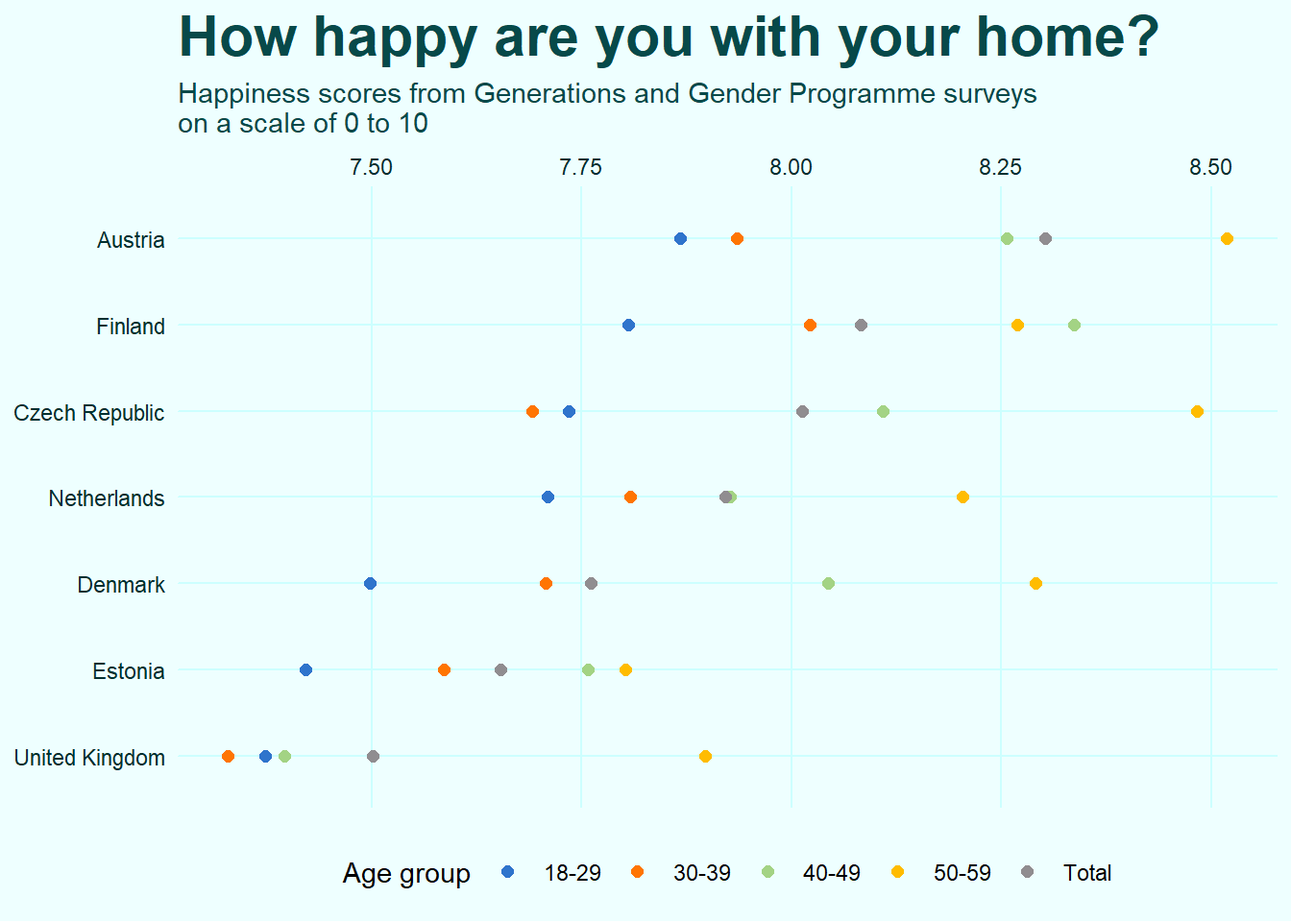
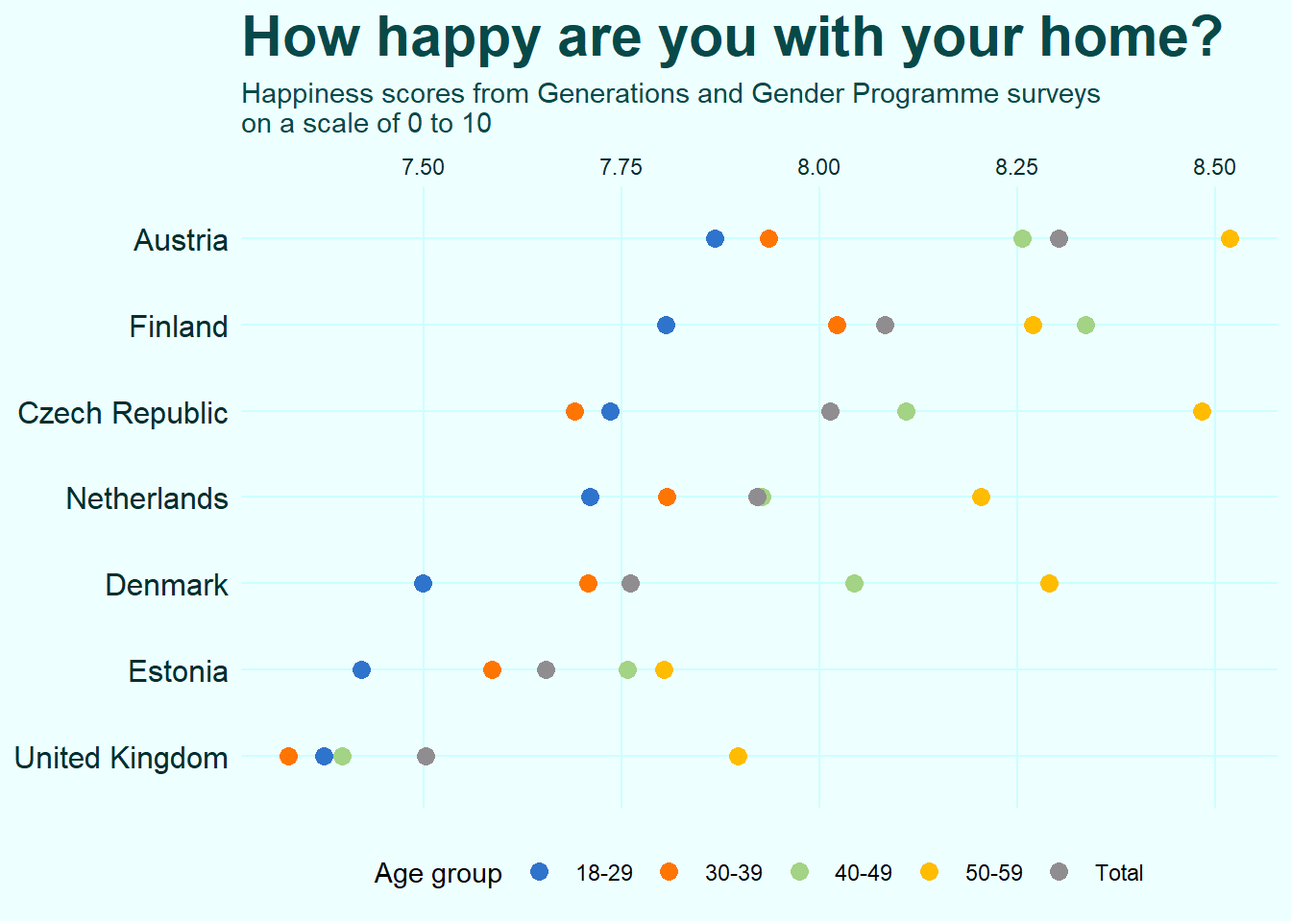
typos

diff --git a/_site/2024/rotate-damn-plot/index.html b/_site/2024/rotate-damn-plot/index.html
@@ -111,7 +111,7 @@ ga('send', {
   hitType: 'pageview',
   'anonymizeIp': true,
 });
-</script><meta name="quarto:status" content="draft">
+</script>
 <meta property="og:title" content="Rotate the damn plot | ?meta:website.title">
 <meta property="og:description" content="Dr.&nbsp;Ilya Kashnitsky is a demographer @ Statistics.">
 <meta property="og:image" content="https://ikashnitsky.phd/2024/rotate-damn-plot/teaser.png">
@@ -131,7 +131,7 @@ ga('send', {
 <body class="nav-fixed fullcontent">
 
 <div id="quarto-search-results"></div>
-  <header id="quarto-header" class="headroom fixed-top"><div id="quarto-draft-alert" class="alert alert-warning"><i class="bi bi-pencil-square"></i>Draft</div><nav class="navbar navbar-expand-lg " data-bs-theme="dark"><div class="navbar-container container-fluid">
+  <header id="quarto-header" class="headroom fixed-top"><nav class="navbar navbar-expand-lg " data-bs-theme="dark"><div class="navbar-container container-fluid">
       <div class="navbar-brand-container mx-auto">
     <a class="navbar-brand" href="../../index.html">
     <span class="navbar-title">Ilya Kashnitsky</span>
@@ -227,25 +227,25 @@ ga('send', {
   
 
 
-</header><script src="https://cdn.counter.dev/script.js" data-id="daa70324-89c3-4b1c-8ea0-3588f29f41f5" data-utcoffset="1"></script><p>Several days ago I saw <a href="https://www.linkedin.com/feed/update/urn:li:activity:7271909125997924353/">a post on LinkedIn by Jornt Mandemakers</a> with some very curious results from <a href="https://bsky.app/profile/ggp.bsky.social">Gender and Generations Programme</a> surveys. While representing interesting data, it was a perfect example of a way too common academic dataviz fallacy that I decided to write this blog post.</p>
+</header><script src="https://cdn.counter.dev/script.js" data-id="daa70324-89c3-4b1c-8ea0-3588f29f41f5" data-utcoffset="1"></script><p>Several days ago I saw <a href="https://www.linkedin.com/feed/update/urn:li:activity:7271909125997924353/">a post on LinkedIn by Jornt Mandemakers</a> with some very curious results from <a href="https://bsky.app/profile/ggp.bsky.social">Gender and Generations Programme</a> surveys. While representing interesting data, it was a perfect example of a way too common academic dataviz fallacy, and I decided to finally write this blog post.</p>
 <p>Here is the original plot by Jornt.</p>
 <p><img src="plot-to-redo.jpg" class="img-fluid"></p>
-<p>We are going to replicate it and then redo – all in hope to illustrate how much it can be improved with very very simple alterations. In fact, this post revives the argument I made in an earlier post called <a href="https://ikashnitsky.phd/2019/dotplot/">Dotplot – the single most useful yet largely neglected dataviz type</a>. Despite the nice title and the same main message, I’m afraid the older post used a less indicative example. So I hope this time I’ll manage to illustrate the key message a bit clearer. But the message itslf stays the same – <strong>forget multi-category bar/column plots and use dotplots instead</strong>. Or, put it the other way around: whenever you are showing a continuous measurement split into multiple categories, place the continuous variable on the horizontal (x) axis and the categorical variable on the vertical (y) axis. That’s it. Just a simple trick improves the readability of your plot <strong>a lot</strong>.</p>
-<p>Unfortunately, the use of crumpled multi-category bar plots is very widespread in academic papers. Just have a look at a Google Lens search on the focal plot in this post – it just browses the internet for similarly looking images, and they are plenty, most of them coming straight from academic papers.</p>
+<p>We are going to replicate it and then redo – all in hope to illustrate how much it can be improved with very very simple alterations. In fact, this post revives the argument I made in an earlier post called <a href="https://ikashnitsky.phd/2019/dotplot/">Dotplot – the single most useful yet largely neglected dataviz type</a>. Despite the nice title and the same main message, I’m afraid the older post used a less indicative example. So I hope this time I’ll manage to illustrate the key message a bit clearer. But the message itself stays the same – <strong>forget multi-category bar/column plots and use dotplots instead</strong>. Or, put it the other way around: whenever you are visualizing a continuous measurement split into multiple categories, place the continuous variable on the horizontal (x) axis and the categorical variable on the vertical (y) axis. That’s it. Just a simple trick improves the readability of your plot <strong>a lot</strong>.</p>
+<p>Unfortunately, the use of crumpled multi-category bar plots is very widespread in academic papers. Have a look at a Google Lens search on the focal plot in this post. Google Lens browses the internet for similarly looking images, and they are plenty, most of them coming straight from academic papers.</p>
 <p><img src="google-lens.png" class="img-fluid"></p>
 <section id="rotate-the-damn-plot" class="level1"><h1>Rotate the damn plot</h1>
-<p>Over years of <a href="https://github.com/ikashnitsky/dataviz-art-skill">teaching dataviz</a> to researchers I came to understanding that this particular mistreatment of data may be the most common and easily avoidable dataviz fallacy. Another dated attempt to spread this simple knowledge yuilded an educational datatviz aimed at the general audience. Here it is.</p>
+<p>Over years of <a href="https://github.com/ikashnitsky/dataviz-art-skill">teaching dataviz</a> to researchers I came to understanding that this particular mistreatment of data may be the most common and easily avoidable dataviz fallacy. Another dated attempt to spread this simple knowledge yielded an educational datatviz aimed at the general audience. Here it is.</p>
 <p><img src="04-magic.png" class="img-fluid"></p>
 <p>As you can see, much better readable text is what we immediately get via such a simple alteration of the dataviz, just <strong>Rotate the damn plot</strong>. There are several more equally simple dataviz rules/principles that I <a href="https://ikashnitsky.github.io/dataviz-art-skill/slides/slides-dataviz-bssd.html">keep teaching</a> and want to write-up better here in future. If you are interested, follow the dedicated BlueSky account @<a href="https://bsky.app/profile/damnplot.ikashnitsky.phd">damnplot.ikashnitsky.phd</a>, I have big plans for it.</p>
-<p>Okay. Enough with the lengthy intro. Let’s replicate the plot from the very beginning of the post and then redo it.</p>
+<p>Okay. Enough with the lengthy intro. Let’s replicate the plot from the very beginning of the post and then improve it.</p>
 </section><section id="digitizing-the-data" class="level1"><h1>Digitizing the data</h1>
-<p>But first we need the data from the plot. Of course, I could have taken it from the original source, <a href="https://bsky.app/profile/ggp.bsky.social">Gender and Generations Programme</a>. Or I could have asked the authors to share just the data used for this plot. But for simple plots that use a handful of data points there is a better simple alternative – digitizing the values from the plot itself. There are numerous software solutions that streamline the task, including an <a href="https://cran.r-project.org/web/packages/digitize/index.html">R package {digitize}</a>. This time I used a brilliantly simple <a href="https://web.eecs.utk.edu/~dcostine/personal/PowerDeviceLib/DigiTest/index.html">WebPlotDigitizer</a>. The idea of digitizing is very simple – we just read the actual values from the plot and thus convert an image into the data underlying it. To do that we only need to provide the information about the coordinates of the plot grid.</p>
+<p>But first we need the data from the plot. Of course, I could have taken it from the original source, <a href="https://bsky.app/profile/ggp.bsky.social">Gender and Generations Programme</a>. Or I could have asked the authors to share only the data used for this plot. But for simple plots that use a handful of data points there is a better alternative – digitizing the values from the plot itself. There are numerous software solutions that streamline the task, including an <a href="https://cran.r-project.org/web/packages/digitize/index.html">R package {digitize}</a>. This time I used the brilliant <a href="https://web.eecs.utk.edu/~dcostine/personal/PowerDeviceLib/DigiTest/index.html">WebPlotDigitizer</a>. The idea of digitizing is very straightforward – we read the actual values from a plot and thus convert the image into data underlying it. To do that we only need to provide the information about the coordinates of the plot grid.</p>
 <p><img src="digi-1.png" class="img-fluid"></p>
-<p>Then the remaining task is just to click all the data points in already known coordinate space.</p>
+<p>Then the remaining task is to click all the data points in already known coordinate space.</p>
 <p><img src="digi-2.png" class="img-fluid"></p>
-<p>Just 35 clicks, and we are ready to export a clean CSV file with the data of the plot. For replocability of this post I uploaded the data and code to a <a href="https://gist.github.com/ikashnitsky/8cc26eab8165b0b79f67da761aa66a1e">gist</a>.</p>
+<p>Just 35 clicks, and we are ready to export a clean CSV file with the data of the plot. For replicability of this post I uploaded the data and code to a <a href="https://gist.github.com/ikashnitsky/8cc26eab8165b0b79f67da761aa66a1e">gist</a>.</p>
 <p><img src="digi-3.png" class="img-fluid"></p>
-<p>Funny enough, I tried to set various LLMs to do the job for me, and some of them even happily reported the extracted data. I was impressed. Really impressed. Until I figured out that, once again, bullshitters are gonna bullshit. All the so called digitized data happened to be approximate guesses of varied wildness. I;m pretty sure that this not so complex task can be reasonably automated. But so far the mainstream LLMs consistently failed to do this. Here is a sneak-peek of my discussion with Claude. Everything is really impressive until you check closely.</p>
+<p>Funny enough, I tried to set various LLMs to do the job for me, and some of them even happily reported the extracted data. I was impressed. Really impressed. Until I figured out that, once again, bullshitters are gonna bullshit. All the so called digitized data happened to be approximate guesses of varied wildness. I’m pretty sure that this not so complex task can be reasonably automated. But so far the mainstream LLMs consistently failed to do this. Here is a sneak-peek of my discussion with Claude. Everything is really impressive until you check closely.</p>
 <p><img src="claude-chat.png" class="img-fluid"></p>
 </section><section id="replicating-original-plot" class="level1"><h1>Replicating original plot</h1>
 <p>Having digitized the data manually, we are now good to go and finally replicate the original plot.</p>
@@ -256,35 +256,35 @@ ga('send', {
 <span><span class="co"># Points digitized manually using</span></span>
 <span><span class="co"># https://web.eecs.utk.edu/~dcostine/personal/PowerDeviceLib/DigiTest/index.html</span></span>
 <span><span class="co"># Data uploaded to a gist</span></span>
-<span><span class="va">digi</span> <span class="op">&lt;-</span> <span class="fu"><a href="https://rdrr.io/pkg/readr/man/read_delim.html">read_csv</a></span><span class="op">(</span></span>
+<span><span class="va">digi</span> <span class="op">&lt;-</span> <span class="fu"><a href="https://readr.tidyverse.org/reference/read_delim.html">read_csv</a></span><span class="op">(</span></span>
 <span>    <span class="st">"https://gist.githubusercontent.com/ikashnitsky/8cc26eab8165b0b79f67da761aa66a1e/raw/8d44c9e6ddea51de3cbb0fdb742fb75a62a307fd/data.csv"</span>,</span>
 <span>    col_names <span class="op">=</span> <span class="fu"><a href="https://rdrr.io/r/base/c.html">c</a></span><span class="op">(</span><span class="st">"x"</span>, <span class="st">"happiness"</span><span class="op">)</span></span>
 <span><span class="op">)</span></span>
 <span></span>
 <span><span class="co"># get all combinations of the categories and attach the digitized data</span></span>
-<span><span class="va">df</span> <span class="op">&lt;-</span> <span class="fu"><a href="https://rdrr.io/pkg/tidyr/man/expand.html">crossing</a></span><span class="op">(</span></span>
-<span>    country <span class="op">=</span> <span class="fu"><a href="https://rdrr.io/r/base/c.html">c</a></span><span class="op">(</span><span class="st">"United Kingdom"</span>, <span class="st">"Estonia"</span>, <span class="st">"Denmark"</span>, <span class="st">"Netherlands"</span>, <span class="st">"Czech Republic"</span>, <span class="st">"Finland"</span>, <span class="st">"Austria"</span><span class="op">)</span> <span class="op">|&gt;</span> <span class="fu"><a href="https://rdrr.io/pkg/forcats/man/as_factor.html">as_factor</a></span><span class="op">(</span><span class="op">)</span>,</span>
+<span><span class="va">df</span> <span class="op">&lt;-</span> <span class="fu"><a href="https://tidyr.tidyverse.org/reference/expand.html">crossing</a></span><span class="op">(</span></span>
+<span>    country <span class="op">=</span> <span class="fu"><a href="https://rdrr.io/r/base/c.html">c</a></span><span class="op">(</span><span class="st">"United Kingdom"</span>, <span class="st">"Estonia"</span>, <span class="st">"Denmark"</span>, <span class="st">"Netherlands"</span>, <span class="st">"Czech Republic"</span>, <span class="st">"Finland"</span>, <span class="st">"Austria"</span><span class="op">)</span> <span class="op">|&gt;</span> <span class="fu"><a href="https://forcats.tidyverse.org/reference/as_factor.html">as_factor</a></span><span class="op">(</span><span class="op">)</span>,</span>
 <span>    group <span class="op">=</span> <span class="fu"><a href="https://rdrr.io/r/base/c.html">c</a></span><span class="op">(</span><span class="st">"18-29"</span>, <span class="st">"30-39"</span>, <span class="st">"40-49"</span>, <span class="st">"50-59"</span>, <span class="st">"Total"</span><span class="op">)</span></span>
 <span><span class="op">)</span> <span class="op">|&gt;</span></span>
-<span>    <span class="fu"><a href="https://rdrr.io/pkg/dplyr/man/mutate.html">mutate</a></span><span class="op">(</span>happiness <span class="op">=</span> <span class="va">digi</span> <span class="op">|&gt;</span> <span class="fu"><a href="https://rdrr.io/pkg/dplyr/man/pull.html">pull</a></span><span class="op">(</span><span class="va">happiness</span><span class="op">)</span><span class="op">)</span></span></code><button title="Copy to Clipboard" class="code-copy-button"><i class="bi"></i></button></pre></div>
+<span>    <span class="fu"><a href="https://dplyr.tidyverse.org/reference/mutate.html">mutate</a></span><span class="op">(</span>happiness <span class="op">=</span> <span class="va">digi</span> <span class="op">|&gt;</span> <span class="fu"><a href="https://dplyr.tidyverse.org/reference/pull.html">pull</a></span><span class="op">(</span><span class="va">happiness</span><span class="op">)</span><span class="op">)</span></span></code><button title="Copy to Clipboard" class="code-copy-button"><i class="bi"></i></button></pre></div>
 </div>
-<p>Now we have the dataset ready to be plotted. First let’s try to recreate the original plot as closely as we can. Note that I use exactly the same colors, which I picked from the original plot using a <a href="https://chromewebstore.google.com/detail/snap-color-picker/nbpljhppefmpifoffhhmllmacfdckokh?hl=en&amp;pli=1">color picker tool</a>. I also tried to outsource this simple task to LLMs. Yes, you guessed it right – they failed.</p>
+<p>Now we have the dataset ready to be plotted. First, let’s try to recreate the original plot as closely as we can. Note that I use exactly the same colors, which I picked from the original plot using a <a href="https://chromewebstore.google.com/detail/snap-color-picker/nbpljhppefmpifoffhhmllmacfdckokh?hl=en&amp;pli=1">color picker tool</a>. I also tried to outsource this simple task to LLMs. Yes, you guessed it right – they failed.</p>
 <div class="cell">
 <div class="sourceCode" id="cb2"><pre class="downlit sourceCode r code-with-copy"><code class="sourceCode R"><span><span class="co"># recreate the plot</span></span>
 <span><span class="va">df</span> <span class="op">|&gt;</span></span>
-<span>    <span class="fu"><a href="https://rdrr.io/pkg/ggplot2/man/ggplot.html">ggplot</a></span><span class="op">(</span><span class="fu"><a href="https://rdrr.io/pkg/ggplot2/man/aes.html">aes</a></span><span class="op">(</span>x <span class="op">=</span> <span class="va">country</span>, y <span class="op">=</span> <span class="va">happiness</span>, fill <span class="op">=</span> <span class="va">group</span><span class="op">)</span><span class="op">)</span><span class="op">+</span></span>
-<span>    <span class="fu"><a href="https://rdrr.io/pkg/ggplot2/man/geom_bar.html">geom_col</a></span><span class="op">(</span>position <span class="op">=</span> <span class="fu"><a href="https://rdrr.io/pkg/ggplot2/man/position_dodge.html">position_dodge</a></span><span class="op">(</span><span class="op">)</span><span class="op">)</span> <span class="op">+</span></span>
-<span>    <span class="fu"><a href="https://rdrr.io/pkg/ggplot2/man/labs.html">labs</a></span><span class="op">(</span></span>
+<span>    <span class="fu"><a href="https://ggplot2.tidyverse.org/reference/ggplot.html">ggplot</a></span><span class="op">(</span><span class="fu"><a href="https://ggplot2.tidyverse.org/reference/aes.html">aes</a></span><span class="op">(</span>x <span class="op">=</span> <span class="va">country</span>, y <span class="op">=</span> <span class="va">happiness</span>, fill <span class="op">=</span> <span class="va">group</span><span class="op">)</span><span class="op">)</span><span class="op">+</span></span>
+<span>    <span class="fu"><a href="https://ggplot2.tidyverse.org/reference/geom_bar.html">geom_col</a></span><span class="op">(</span>position <span class="op">=</span> <span class="fu"><a href="https://ggplot2.tidyverse.org/reference/position_dodge.html">position_dodge</a></span><span class="op">(</span><span class="op">)</span><span class="op">)</span> <span class="op">+</span></span>
+<span>    <span class="fu"><a href="https://ggplot2.tidyverse.org/reference/labs.html">labs</a></span><span class="op">(</span></span>
 <span>        x <span class="op">=</span> <span class="cn">NULL</span>,</span>
 <span>        y <span class="op">=</span> <span class="cn">NULL</span>,</span>
 <span>        fill <span class="op">=</span> <span class="cn">NULL</span></span>
 <span>    <span class="op">)</span> <span class="op">+</span></span>
-<span>    <span class="fu"><a href="https://rdrr.io/pkg/ggplot2/man/coord_cartesian.html">coord_cartesian</a></span><span class="op">(</span>ylim <span class="op">=</span> <span class="fu"><a href="https://rdrr.io/r/base/c.html">c</a></span><span class="op">(</span><span class="fl">6</span>, <span class="cn">NA</span><span class="op">)</span>, expand <span class="op">=</span> <span class="fl">0</span><span class="op">)</span><span class="op">+</span></span>
-<span>    <span class="fu"><a href="https://rdrr.io/pkg/ggplot2/man/scale_manual.html">scale_fill_manual</a></span><span class="op">(</span>values <span class="op">=</span> <span class="fu"><a href="https://rdrr.io/r/base/c.html">c</a></span><span class="op">(</span><span class="st">"#2f74cc"</span>, <span class="st">"#ff7502"</span>, <span class="st">"#a3d384"</span>, <span class="st">"#ffbc00"</span>, <span class="st">"#908d90"</span><span class="op">)</span><span class="op">)</span><span class="op">+</span></span>
-<span>    <span class="fu"><a href="https://rdrr.io/pkg/ggplot2/man/ggtheme.html">theme_minimal</a></span><span class="op">(</span><span class="op">)</span><span class="op">+</span></span>
-<span>    <span class="fu"><a href="https://rdrr.io/pkg/ggplot2/man/theme.html">theme</a></span><span class="op">(</span></span>
+<span>    <span class="fu"><a href="https://ggplot2.tidyverse.org/reference/coord_cartesian.html">coord_cartesian</a></span><span class="op">(</span>ylim <span class="op">=</span> <span class="fu"><a href="https://rdrr.io/r/base/c.html">c</a></span><span class="op">(</span><span class="fl">6</span>, <span class="cn">NA</span><span class="op">)</span>, expand <span class="op">=</span> <span class="fl">0</span><span class="op">)</span><span class="op">+</span></span>
+<span>    <span class="fu"><a href="https://ggplot2.tidyverse.org/reference/scale_manual.html">scale_fill_manual</a></span><span class="op">(</span>values <span class="op">=</span> <span class="fu"><a href="https://rdrr.io/r/base/c.html">c</a></span><span class="op">(</span><span class="st">"#2f74cc"</span>, <span class="st">"#ff7502"</span>, <span class="st">"#a3d384"</span>, <span class="st">"#ffbc00"</span>, <span class="st">"#908d90"</span><span class="op">)</span><span class="op">)</span><span class="op">+</span></span>
+<span>    <span class="fu"><a href="https://ggplot2.tidyverse.org/reference/ggtheme.html">theme_minimal</a></span><span class="op">(</span><span class="op">)</span><span class="op">+</span></span>
+<span>    <span class="fu"><a href="https://ggplot2.tidyverse.org/reference/theme.html">theme</a></span><span class="op">(</span></span>
 <span>        legend.position <span class="op">=</span> <span class="st">"bottom"</span>,</span>
-<span>        panel.grid.minor <span class="op">=</span> <span class="fu"><a href="https://rdrr.io/pkg/ggplot2/man/element.html">element_blank</a></span><span class="op">(</span><span class="op">)</span></span>
+<span>        panel.grid.minor <span class="op">=</span> <span class="fu"><a href="https://ggplot2.tidyverse.org/reference/element.html">element_blank</a></span><span class="op">(</span><span class="op">)</span></span>
 <span>    <span class="op">)</span></span></code><button title="Copy to Clipboard" class="code-copy-button"><i class="bi"></i></button></pre></div>
 <div class="cell-output-display">
 <div>
@@ -293,34 +293,35 @@ ga('send', {
 </div>
 </div>
 </div>
-<p>I’ll just briefly mention that there are more common issues with this particular plot. As a general rule think of any of your plots to be self-sufficient if just posted on social media without any additional context. Thus, it’s always a good idea to add a brief meaningful title, label the axes properly, explain the legend, and maybe add a few annotations.</p>
+<p>Here I’ll briefly mention that there are more common issues with this particular plot. As a general rule think of any of your plots to be self-sufficient if just posted on social media without any additional context. Thus, it’s always a good idea to add a brief meaningful title, label the axes properly, explain the legend, and maybe add a few annotations.</p>
 </section><section id="improving-the-plot" class="level1"><h1>Improving the plot</h1>
-<p>The following lines of code take care of {ggplot2} theme, setting it to the one with my preferred selection of options. Earlier I wrote <a href="https://ikashnitsky.phd/2023/gist-snippet/">a dedicated blog post</a> for this portable theming solution.</p>
+<p>The following lines of code take care of {ggplot2} theme, setting it to the one with my preferred selection of options. Earlier I wrote <a href="https://ikashnitsky.phd/2023/gist-snippet/">a dedicated blog post</a> about this portable theming solution.</p>
 <div class="cell">
 <div class="sourceCode" id="cb3"><pre class="downlit sourceCode r code-with-copy"><code class="sourceCode R"><span><span class="co"># custom theming</span></span>
-<span><span class="fu">devtools</span><span class="fu">::</span><span class="fu"><a href="https://rdrr.io/pkg/devtools/man/source_gist.html">source_gist</a></span><span class="op">(</span><span class="st">"653e1040a07364ae82b1bb312501a184"</span><span class="op">)</span></span>
+<span><span class="fu">devtools</span><span class="fu">::</span><span class="fu"><a href="https://devtools.r-lib.org/reference/source_gist.html">source_gist</a></span><span class="op">(</span><span class="st">"653e1040a07364ae82b1bb312501a184"</span><span class="op">)</span></span>
 <span><span class="fu">sysfonts</span><span class="fu">::</span><span class="fu"><a href="https://rdrr.io/pkg/sysfonts/man/font_add_google.html">font_add_google</a></span><span class="op">(</span><span class="st">"Atkinson Hyperlegible"</span>, family <span class="op">=</span> <span class="st">"ah"</span><span class="op">)</span></span>
-<span><span class="fu"><a href="https://rdrr.io/pkg/ggplot2/man/theme_get.html">theme_set</a></span><span class="op">(</span><span class="fu">theme_ik</span><span class="op">(</span>base_family <span class="op">=</span> <span class="st">"ah"</span>, base_size <span class="op">=</span> <span class="fl">11</span><span class="op">)</span><span class="op">)</span></span></code><button title="Copy to Clipboard" class="code-copy-button"><i class="bi"></i></button></pre></div>
+<span><span class="fu"><a href="https://ggplot2.tidyverse.org/reference/theme_get.html">theme_set</a></span><span class="op">(</span><span class="fu">theme_ik</span><span class="op">(</span>base_family <span class="op">=</span> <span class="st">"ah"</span>, base_size <span class="op">=</span> <span class="fl">11</span><span class="op">)</span><span class="op">)</span></span></code><button title="Copy to Clipboard" class="code-copy-button"><i class="bi"></i></button></pre></div>
 </div>
 <p>And finally the improved version of the plot.</p>
 <div class="cell">
 <div class="sourceCode" id="cb4"><pre class="downlit sourceCode r code-with-copy"><code class="sourceCode R"><span><span class="co"># Create the plot</span></span>
 <span><span class="va">df</span> <span class="op">|&gt;</span></span>
-<span>    <span class="fu"><a href="https://rdrr.io/pkg/ggplot2/man/ggplot.html">ggplot</a></span><span class="op">(</span><span class="fu"><a href="https://rdrr.io/pkg/ggplot2/man/aes.html">aes</a></span><span class="op">(</span>y <span class="op">=</span> <span class="va">country</span>, x <span class="op">=</span> <span class="va">happiness</span>, color <span class="op">=</span> <span class="va">group</span><span class="op">)</span><span class="op">)</span><span class="op">+</span></span>
-<span>    <span class="fu"><a href="https://rdrr.io/pkg/ggplot2/man/geom_point.html">geom_point</a></span><span class="op">(</span>size <span class="op">=</span> <span class="fl">2</span><span class="op">)</span> <span class="op">+</span></span>
-<span>    <span class="fu"><a href="https://rdrr.io/pkg/ggplot2/man/labs.html">labs</a></span><span class="op">(</span></span>
+<span>    <span class="fu"><a href="https://ggplot2.tidyverse.org/reference/ggplot.html">ggplot</a></span><span class="op">(</span><span class="fu"><a href="https://ggplot2.tidyverse.org/reference/aes.html">aes</a></span><span class="op">(</span>y <span class="op">=</span> <span class="va">country</span>, x <span class="op">=</span> <span class="va">happiness</span>, color <span class="op">=</span> <span class="va">group</span><span class="op">)</span><span class="op">)</span><span class="op">+</span></span>
+<span>    <span class="fu"><a href="https://ggplot2.tidyverse.org/reference/geom_point.html">geom_point</a></span><span class="op">(</span>size <span class="op">=</span> <span class="fl">3</span><span class="op">)</span> <span class="op">+</span></span>
+<span>    <span class="fu"><a href="https://ggplot2.tidyverse.org/reference/labs.html">labs</a></span><span class="op">(</span></span>
 <span>        title <span class="op">=</span> <span class="st">"How happy are you with your home?"</span>,</span>
 <span>        subtitle <span class="op">=</span> <span class="st">"Happiness scores from Generations and Gender Programme surveys\non a scale of 0 to 10"</span>,</span>
 <span>        x <span class="op">=</span> <span class="cn">NULL</span>,</span>
 <span>        y <span class="op">=</span> <span class="cn">NULL</span>,</span>
 <span>        color <span class="op">=</span> <span class="st">"Age group"</span></span>
 <span>    <span class="op">)</span> <span class="op">+</span></span>
-<span>    <span class="fu"><a href="https://rdrr.io/pkg/ggplot2/man/scale_manual.html">scale_color_manual</a></span><span class="op">(</span>values <span class="op">=</span> <span class="fu"><a href="https://rdrr.io/r/base/c.html">c</a></span><span class="op">(</span><span class="st">"#2f74cc"</span>, <span class="st">"#ff7502"</span>, <span class="st">"#a3d384"</span>, <span class="st">"#ffbc00"</span>, <span class="st">"#908d90"</span><span class="op">)</span><span class="op">)</span><span class="op">+</span></span>
-<span>    <span class="fu"><a href="https://rdrr.io/pkg/ggplot2/man/theme.html">theme</a></span><span class="op">(</span></span>
+<span>    <span class="fu"><a href="https://ggplot2.tidyverse.org/reference/scale_manual.html">scale_color_manual</a></span><span class="op">(</span>values <span class="op">=</span> <span class="fu"><a href="https://rdrr.io/r/base/c.html">c</a></span><span class="op">(</span><span class="st">"#2f74cc"</span>, <span class="st">"#ff7502"</span>, <span class="st">"#a3d384"</span>, <span class="st">"#ffbc00"</span>, <span class="st">"#908d90"</span><span class="op">)</span><span class="op">)</span><span class="op">+</span></span>
+<span>    <span class="fu"><a href="https://ggplot2.tidyverse.org/reference/theme.html">theme</a></span><span class="op">(</span></span>
 <span>        legend.position <span class="op">=</span> <span class="st">"bottom"</span>,</span>
-<span>        panel.grid.minor.x <span class="op">=</span> <span class="fu"><a href="https://rdrr.io/pkg/ggplot2/man/element.html">element_blank</a></span><span class="op">(</span><span class="op">)</span></span>
+<span>        panel.grid.minor.x <span class="op">=</span> <span class="fu"><a href="https://ggplot2.tidyverse.org/reference/element.html">element_blank</a></span><span class="op">(</span><span class="op">)</span>,</span>
+<span>        axis.text.y <span class="op">=</span> <span class="fu"><a href="https://ggplot2.tidyverse.org/reference/element.html">element_text</a></span><span class="op">(</span>size <span class="op">=</span> <span class="fl">12</span><span class="op">)</span></span>
 <span>    <span class="op">)</span><span class="op">+</span></span>
-<span>    <span class="fu"><a href="https://rdrr.io/pkg/ggplot2/man/scale_continuous.html">scale_x_continuous</a></span><span class="op">(</span>position <span class="op">=</span> <span class="st">"top"</span><span class="op">)</span></span></code><button title="Copy to Clipboard" class="code-copy-button"><i class="bi"></i></button></pre></div>
+<span>    <span class="fu"><a href="https://ggplot2.tidyverse.org/reference/scale_continuous.html">scale_x_continuous</a></span><span class="op">(</span>position <span class="op">=</span> <span class="st">"top"</span><span class="op">)</span></span></code><button title="Copy to Clipboard" class="code-copy-button"><i class="bi"></i></button></pre></div>
 <div class="cell-output-display">
 <div>
 <figure class="figure"><p><img src="index_files/figure-html/unnamed-chunk-4-1.png" class="img-fluid figure-img" width="672"></p>
@@ -328,7 +329,10 @@ ga('send', {
 </div>
 </div>
 </div>
-<p>Note that the essential difference here is that I switched the axes effectively <strong>rotating the damn plot</strong>. I also used dots instead of filled bars. There is also a great advantage in doing this, which is nicely illustrated by this plot. Using dots alows to trim the continuous axis to zoom closer to the data. When you do the same to a bar plot, the visual impression gets distorted via the disproportional changes to the areas of the filled bars. Claus Wilke points this out and explains more in his brilliant <a href="https://clauswilke.com/dataviz/visualizing-amounts.html#dot-plots-and-heatmaps">dataviz book</a>.</p>
+<p>Note that the essential difference here is that I switched the axes effectively <strong>rotating the damn plot</strong>. I also used dots instead of filled bars. There is a great advantage in doing this, which is nicely illustrated by this plot. Using dots allows to trim the continuous axis to zoom closer to the data. When you do the same to a bar plot, the visual representation ofthe data gets distorted via the disproportional changes to the areas of the filled bars. Claus Wilke points this out and explains more in his brilliant <a href="https://clauswilke.com/dataviz/visualizing-amounts.html#dot-plots-and-heatmaps">dataviz book</a>.</p>
+<blockquote class="blockquote">
+<p>One important limitation of bars is that they need to start at zero, so that the bar length is proportional to the amount shown.</p>
+</blockquote>
 <p>And of course I added a title, subtitle, and legend caption. Note also a small handy trick that I use all the time – I moved x-axis labels to the top of the plot which allows me to use the subtitle as the axis label and not only save some space but also make the process of reading the plot more straightforward.</p>
 <p>Let me conclude with just reiterating that it is hard to overestimate how important is text in dataviz. It should be meaningful and sufficiently detailed, easily readable (i.e.&nbsp;necessarily horizontal and large enough), preferable using some nice font. <strong>Pay attention to the text elements of you dataviz</strong>!</p>
 <hr>

diff --git a/_site/index.html b/_site/index.html
@@ -487,7 +487,7 @@ window.Quarto = {
 <div id="listing-posts_2024" class="quarto-listing quarto-listing-container-custom">
 <div class="list grid" style="column-gap: 20px;">
     
-    <div class="blog-entry g-col-12 g-col-sm-6 g-col-md-4 mb-2" data-index="0" data-categories="r,dataviz,trick" data-listing-date-sort="1734476400000" data-listing-file-modified-sort="1734529940944" data-listing-date-modified-sort="NaN" data-listing-reading-time-sort="8" data-listing-word-count-sort="1439">
+    <div class="blog-entry g-col-12 g-col-sm-6 g-col-md-4 mb-2" data-index="0" data-categories="r,dataviz,trick" data-listing-date-sort="1734476400000" data-listing-file-modified-sort="1734550737187" data-listing-date-modified-sort="NaN" data-listing-reading-time-sort="8" data-listing-word-count-sort="1469">
 
         <div class="body">
 
